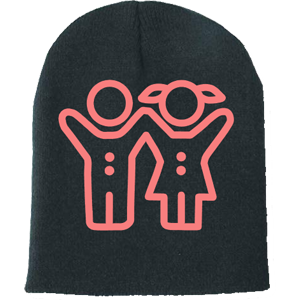
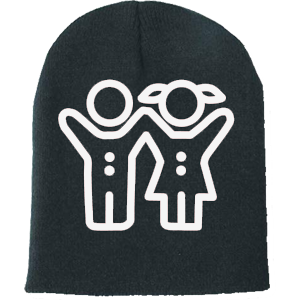
update to store content, and colors on courses and store

Changed region(s): [[0.18, 0.24, 0.78, 0.78]]

diff --git a/Store.html b/Store.html
@@ -27,16 +27,27 @@
   <div class="merch-container">
                 
     <h3 class= "store-header">Arm's Length Store</h3>
-    <p>Lorem ipsum dolor sit amet consectetur, adipisicing elit. Voluptas, ratione debitis voluptate nam velit quia? Ullam, libero, fugiat quibusdam totam mollitia tenetur beatae magni repellat asperiores, cumque laudantium neque velit? Lorem, ipsum dolor sit amet consectetur adipisicing elit. Non vitae esse architecto similique accusantium repellat cupiditate tempora placeat provident debitis quisquam, dicta odio, impedit, rerum quidem eaque qui animi veniam.
+    <p class="store-text">Lorem ipsum dolor sit amet consectetur, adipisicing elit. Voluptas, ratione debitis voluptate nam velit quia? Ullam, libero, fugiat quibusdam totam mollitia tenetur beatae magni repellat asperiores, cumque laudantium neque velit? Lorem, ipsum dolor sit amet consectetur adipisicing elit. Non vitae esse architecto similique accusantium repellat cupiditate tempora placeat provident debitis quisquam, dicta odio, impedit, rerum quidem eaque qui animi veniam.
+<br><br>
+      Points to make:
+      -all proceeds go to Arm's Length projects
+      -designs and products change, check back for different things!
+      -helps pay for courses and materials for students who need extra support
+      -"Buy a hoodie, give some warmth" with each purchase of a hooded sweatshirt, a sweatshirt, jacket or coat goes to a young person in need during the coldest time of the year
+      -"Share the H2O"- the purchases of water bottles and coffee tumblrs help support our programs to provide clean water to young people in need
+      -student crafts and art work can be found for sale in our downtown Albany location, and in fundraisers throughout the year. 
     </p>
 
    
         <div class="merch"><img src="img/store-img/hat.png" alt="Beanie" class="merchpic"><div class="merch-text">Arm's Length Beanie $15</div></div>
+        <div class="merch"><img src="img/store-img/water_bottle.png" alt="water_bottle" class="merchpic"><div class="merch-text">Arm's Length Water Bottle $20</div></div>
         <div class="merch"><img src="img/store-img/maroon_hoodie.png" alt="maroon_hoodie" class="merchpic"><div class="merch-text">Arm's Length Hooded Sweatshirt $45</div></div>
-        <div class="merch"><img src="http://placehold.it/300" alt="" class="merchpic"><div class="merch-text"></div></div>
-        <div class="merch"><img src="http://placehold.it/300" alt="" class="merchpic"><div class="merch-text"></div></div>
-        <div class="merch"><img src="http://placehold.it/300" alt="" class="merchpic"><div class="merch-text"></div></div>
-        <div class="merch"><img src="http://placehold.it/300" alt="" class="merchpic"><div class="merch-text"></div></div>
+        <div class="merch"><img src="img/store-img/white_tshirt.png" alt="white_tshirt" class="merchpic"><div class="merch-text">Arm's Length T-shirt $15</div></div>
+        <div class="merch"><img src="img/store-img/baseball-cap.png" alt="baseball-cap" class="merchpic"><div class="merch-text">Baseball Cap $15</div></div>
+        <div class="merch"><img src="img/store-img/zipped-hoodie.png" alt="zipped-hoodie" class="merchpic"><div class="merch-text">Zipped Hooded Sweatshirt $35</div></div>
+        <div class="merch"><img src="img/store-img/long-sleeve.png" alt="sweatshirt" class="merchpic"><div class="merch-text">Arm's Length Sweatshirt $30</div></div>
+        <div class="merch"><img src="img/store-img/long-tshirt.png" alt="long-sleeve" class="merchpic"><div class="merch-text">Long Sleeved T-Shirt $20</div></div>
+        <div class="merch"><img src="img/store-img/coffee-tumblr.png" alt="coffee-tumblr" class="merchpic"><div class="merch-text">Coffee Mug $15</div></div>
         </div>
     </div>
 

diff --git a/css/courses-styles.css b/css/courses-styles.css
@@ -17,10 +17,10 @@ main {
       padding: 20px;
   }
 
-/* ##### Body Formatting#### */
+/* ##### Body Formatting for Courses#### */
 
-.full-body {
-    background-color: #9BDEAC;
+.course-body {
+    background-color: #fafafb;
 }
 
 .top-image {
@@ -42,6 +42,7 @@ font-size: 20px;
 padding-left: 40px;
 padding-right: 40px;
 padding-bottom: 40px;
+color: #194F92;
 }
 
 
@@ -59,6 +60,7 @@ padding-bottom: 40px;
     outline: none;
     font-size: 15px;
     transition: 0.4s;
+    box-shadow: 0px 1px 5px black
   }
   
   .active, .accordion:hover {
@@ -70,6 +72,7 @@ padding-bottom: 40px;
     display: none;
     background-color: #D3D3D3;
     overflow: hidden;
+    box-shadow: 0px 1px 5px black
   }
 
   .course {
@@ -90,6 +93,7 @@ padding-bottom: 40px;
     font-family: Arial, Helvetica, sans-serif;
     font-size: 20px;
     margin-right: 15px;
+    color: #194F92;
   }
   .information {
     display: flex;

diff --git a/css/store-styles.css b/css/store-styles.css
@@ -20,19 +20,26 @@ main  {
 
 /* ### Store Page Formatting ### */
 
-p {
+.store-text {
   font-family: Arial, Helvetica, sans-serif;
   font-size: 20px;
+  color: #194F92;
+  padding-right: 20px;
+  padding-left: 20px;
 }
 
 .store-header {
   text-align: center;
   font-size: 60px;
+  color: #194F92;
 }
 .merch-container {
   display: flex;
   flex-wrap: wrap;
   justify-content: center;  
+  background-color: #fafafb;
+  
+
 }
 
 
@@ -45,6 +52,8 @@ p {
   padding: 50px;
   margin: 20px;
   text-align: center;
+  box-shadow: 0px 1px 5px black
+  
 }
 
 .merchpic {
@@ -57,6 +66,7 @@ p {
   font-family: Arial, Helvetica, sans-serif;
   padding-top: 20px;
   font-size: 30px;
+  color: #194F92;
 }
 
 

diff --git a/courses.html b/courses.html
@@ -36,7 +36,7 @@
 </nav>
 
     <main>
-<div class="full-body">
+<div class="course-body">
   
   <!-- If I can figure out how to do it, the OWL carousel instead of the one static image as a head image -->
 
